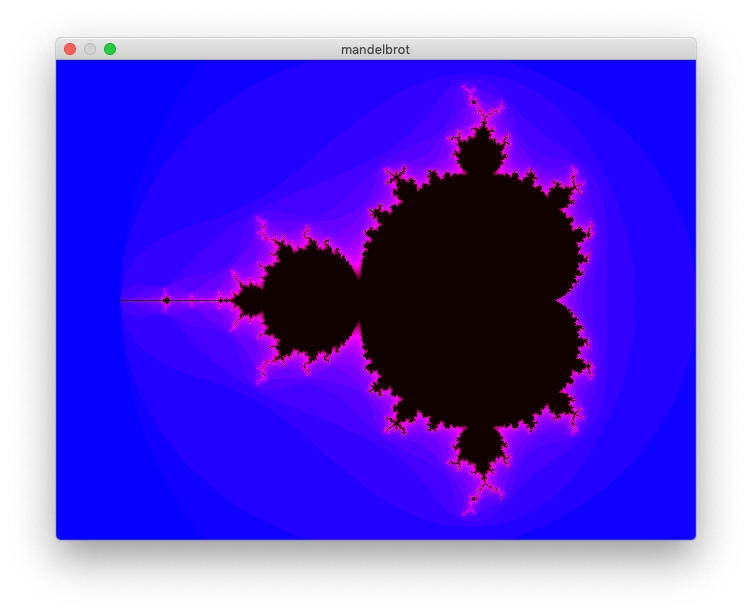
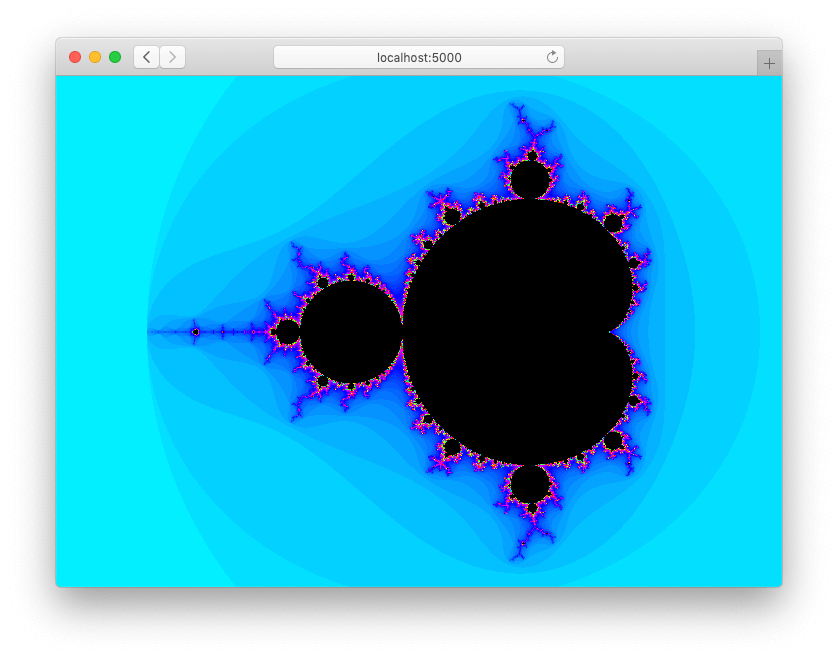
Update README

diff --git a/README.md b/README.md
@@ -1,13 +1,33 @@
 # mandelbrot
 
-[Mandelbrot set](https://en.wikipedia.org/wiki/Mandelbrot_set) in Rust.
+[Mandelbrot set](https://en.wikipedia.org/wiki/Mandelbrot_set) in Rust targeting
+WebAssembly, online at [mandelbrot-rust.web.app](https://mandelbrot-rust.web.app/).
 
 ![mandelbrot](images/mandelbrot.png)
 
-## Installation
+## Controls
+
+- Left click to zoom in.
+- Right click to zoom out.
+
+## Development
+
+Install dependencies.
 
 ```sh
-cargo run
+script/setup
+```
+
+Build Rust and web frontend.
+
+```sh
+script/build
+```
+
+Serve frontend at [localhost:5000](http://localhost:5000/).
+
+```sh
+script/serve
 ```
 
 ## License
